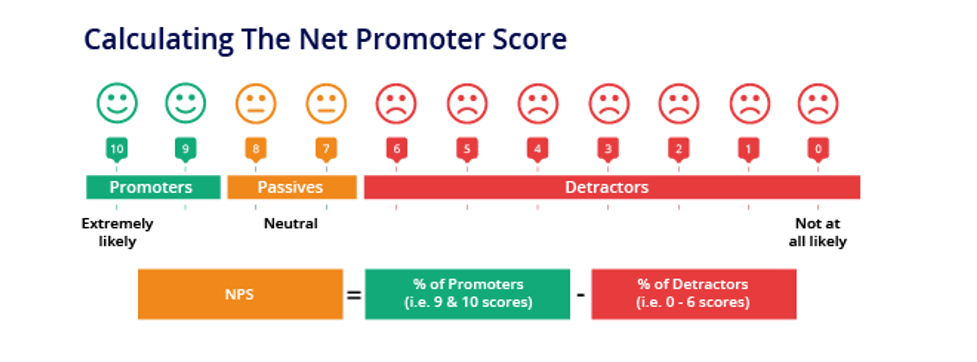
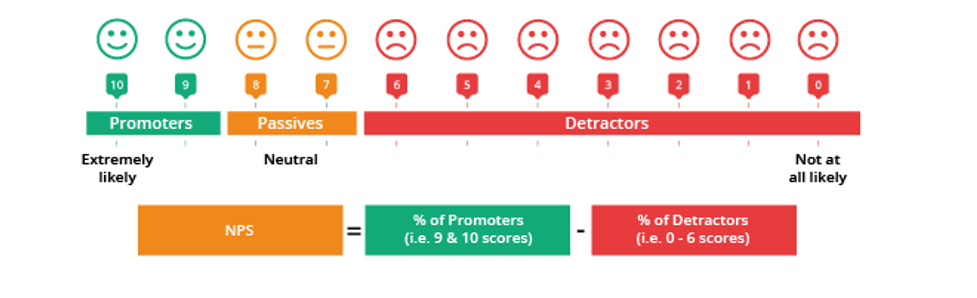
update

Changed region(s): [[0.0614, 0.0604, 0.8905, 0.906], [0.2456, 0.604, 0.3378, 0.6342]]

diff --git a/index.html b/index.html
@@ -343,7 +343,7 @@
           <p><em>Net Promoter Score (NPS)</em> <br>Net Promoter Score, or NPS, measures customer experience and predicts business growth. NPS measures the loyalty of customers to a company. NPS scores are measured with a single-answer question and reported with a number from the range -100 to +100, a higher score is desirable.</p>
           <div class="examples">
             <div class="example">
-              <h4>Example: Net Promoter Score
+              <h4>Example:  Calculating The Net Promoter Score
               <img src="assets/images/ex-nps.png" alt="Example 1">
             </div>
           </div>
